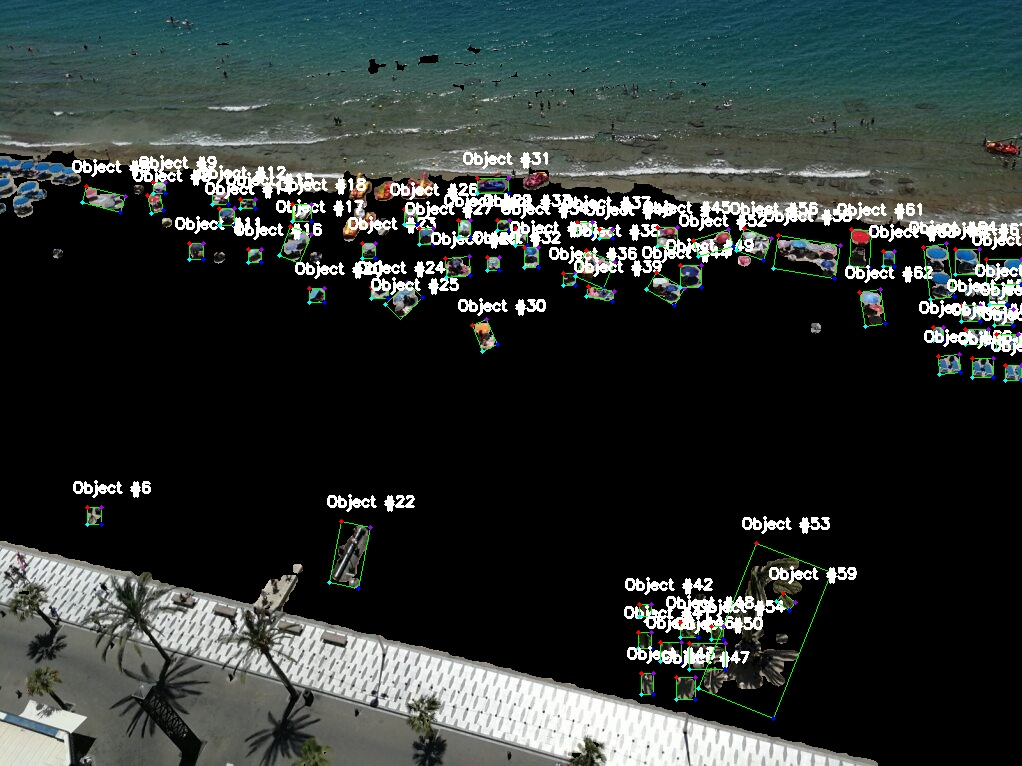
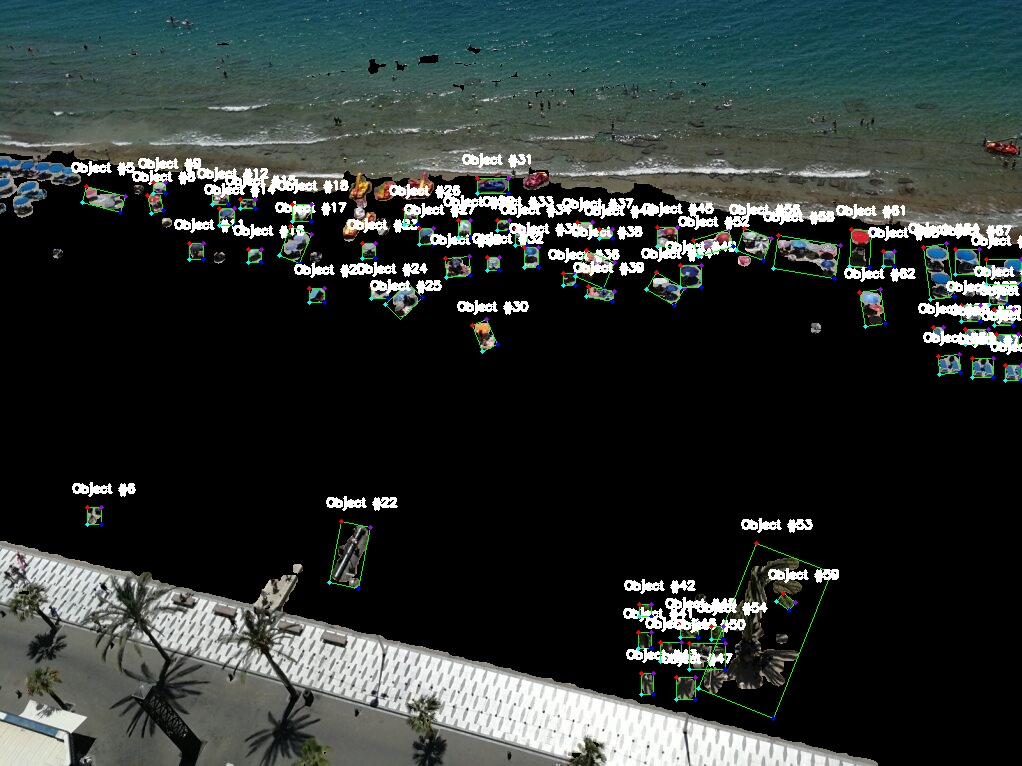
contour  and distance on px update

diff --git a/find_distancepx.py b/find_distancepx.py
@@ -1,0 +1,157 @@
+# import the necessary packages
+from scipy.spatial import distance as dist
+from imutils import perspective
+from imutils import contours
+import numpy as np
+import argparse
+import imutils
+import cv2
+
+def midpoint(ptA, ptB):
+	return ((ptA[0] + ptB[0]) * 0.5, (ptA[1] + ptB[1]) * 0.5)
+#To get de color ranges of each image each image has lower numpy array and upper numpy array
+def get_color_ranges(file):
+    color_ranges = {
+        'sin_palmeras.jpg': (np.array([16, 12, 105]), np.array([30, 68, 245])),
+        'aerea_full.jpg': (np.array([6, 15, 221]), np.array([179, 255, 255])),
+        'prueba.png': (np.array([9, 14, 163]), np.array([84, 51, 255])),
+        'captura_benidorm_1.JPG': (np.array([12, 31, 114]), np.array([82, 61, 223])),
+        'partially_seg_SAM.jpg': (np.array([0, 158, 139]), np.array([179, 255, 255])),
+        'Raw_Images/1_beni.jpg': (np.array([14, 14, 137]), np.array([21, 108, 220])),
+        'Raw_Images/2_beni.jpg': (np.array([14, 40, 120]), np.array([24, 86, 215])),
+        'Raw_Images/3_beni.jpg': (np.array([11, 42, 117]), np.array([92, 93, 200])),
+        'Raw_Images/1_posti.jpg': (np.array([11, 27, 122]), np.array([28, 77, 213])),
+        'Raw_Images/2_posti.jpg': (np.array([8, 8, 152]), np.array([45, 69, 219])),
+        'Raw_Images/3_posti.jpg': (np.array([11, 43, 107]), np.array([26, 105, 181])),
+    }
+    return color_ranges.get(file, (None, None))
+
+def main():
+    # Read image
+    file = 'Raw_Images/3_beni.jpg'
+    img = cv2.imread(file)
+    up_width = 1280
+    up_height = 720
+    up_points = (up_width, up_height)
+    img = cv2.resize(img, up_points, interpolation= cv2.INTER_LINEAR)
+    img= cv2.cvtColor(img, cv2.COLOR_BGR2HSV)
+    hh, ww = img.shape[:2]
+
+    # Rangos de color para cada imagen
+    lower, upper = get_color_ranges(file)
+    if lower is None or upper is None:
+        print("Rangos de color no definidos para la imagen")
+        return
+
+    ##### NO IMPROVES WITH GAUSSIAN BLUR
+    # img = cv2.GaussianBlur(img, (5, 5), 0)
+    # cv2.imshow('gaussian', img)
+
+    # Create mask to only select none and
+    thresh = cv2.inRange(img, lower, upper)
+
+    # apply morphology
+    size = 10    # can change this value depends the image
+    kernel = cv2.getStructuringElement(cv2.MORPH_ELLIPSE, (size,size),anchor=(size//2,size//2))
+    morph = cv2.morphologyEx(thresh, cv2.MORPH_CLOSE, kernel, iterations=1)
+
+
+    # invert morp image
+    mask = 255 - morph
+
+    # apply mask to image
+    result = cv2.bitwise_and(img, img, mask=mask)
+
+    # hsv to bgr
+    result = cv2.cvtColor(result, cv2.COLOR_HSV2BGR)
+
+    #draw contours
+    thick_countours = 1
+    cnts = cv2.findContours(mask.copy(), cv2.RETR_EXTERNAL, cv2.CHAIN_APPROX_SIMPLE)  ## External better than tree for this case because we only want the external contour
+    #cv2.drawContours(result, cnts, -1, (0,255,0), thick_countours)
+    cnts = cnts[1] if imutils.is_cv3() else cnts[0]
+
+    # sort the contours from left-to-right and, then initialize the
+    # distance colors and reference object
+    (cnts, _) = contours.sort_contours(cnts)
+    colors = ((0, 0, 255), (240, 0, 159), (0, 165, 255), (255, 255, 0),
+        (255, 0, 255))
+    refObj = None
+
+    # loop over the contours individually
+    for c in cnts:
+        # if the contour is not sufficiently large, ignore it
+        if cv2.contourArea(c) < 100 or cv2.contourArea(c) > 10000:
+            continue
+
+        # compute the rotated bounding box of the contour
+        box = cv2.minAreaRect(c)
+        box = cv2.cv.BoxPoints(box) if imutils.is_cv2() else cv2.boxPoints(box)
+        box = np.array(box, dtype="int")
+
+        # order the points in the contour such that they appear
+        # in top-left, top-right, bottom-right, and bottom-left
+        # order, then draw the outline of the rotated bounding
+        # box
+        box = perspective.order_points(box)
+
+        # compute the center of the bounding box
+        cX = np.average(box[:, 0])
+        cY = np.average(box[:, 1])
+
+        # if this is the first contour we are examining (i.e.,
+        # the left-most contour), we presume this is the
+        # reference object
+        if refObj is None:
+            # unpack the ordered bounding box, then compute the
+            # midpoint between the top-left and top-right points,
+            # followed by the midpoint between the top-right and
+            # bottom-right
+            (tl, tr, br, bl) = box
+            (tlblX, tlblY) = midpoint(tl, bl)
+            (trbrX, trbrY) = midpoint(tr, br)
+
+            # compute the Euclidean distance between the midpoints,
+            # then construct the reference object
+            D = dist.euclidean((tlblX, tlblY), (trbrX, trbrY))
+            refObj = (box, (cX, cY), D)
+            continue
+
+        # draw the contours on the image
+        orig = result.copy()
+        cv2.drawContours(orig, [box.astype("int")], -1, (0, 255, 0), thick_countours)
+        cv2.drawContours(orig, [refObj[0].astype("int")], -1, (0, 255, 0), thick_countours)
+
+        # stack the reference coordinates and the object coordinates
+        # to include the object center
+        refCoords = np.vstack([refObj[0], refObj[1]])
+        objCoords = np.vstack([box, (cX, cY)])
+
+        # loop over the original points
+        for ((xA, yA), (xB, yB), color) in zip(refCoords, objCoords, colors):
+            # draw circles corresponding to the current points and
+            # connect them with a line
+            cv2.circle(orig, (int(xA), int(yA)), 5, color, -1)
+            cv2.circle(orig, (int(xB), int(yB)), 5, color, -1)
+            cv2.line(orig, (int(xA), int(yA)), (int(xB), int(yB)),
+                color, 2)
+
+            # compute the Euclidean distance between the coordinates,
+            # and then convert the distance in pixels to distance in
+            # units
+            D = dist.euclidean((xA, yA), (xB, yB)) / refObj[2]
+            (mX, mY) = midpoint((xA, yA), (xB, yB))
+            cv2.putText(orig, "{:.1f}px".format(D), (int(mX), int(mY - 10)),
+                cv2.FONT_HERSHEY_SIMPLEX, 0.55, color, 2)
+            cv2.imshow("Image", orig)
+            cv2.waitKey(0)
+
+        # update the reference object to be the current contour
+        refObj = (box, (cX, cY), 1.0)
+
+        # show the output image
+        # cv2.imshow("Image", orig)
+        # cv2.waitKey(0)
+    
+if __name__ == '__main__':
+    main()

diff --git a/substract_no_centroid.py b/substract_no_centroid.py
@@ -1,7 +1,60 @@
+from __future__ import print_function
 import cv2
 import numpy as np
-from tkinter import filedialog
-import tkinter as tk
+from imutils import perspective
+from imutils import contours
+import imutils
+import argparse
+from scipy.spatial import distance as dist
+
+def order_points_old(pts):
+    # initialize a list of coordinates that will be ordered
+    # such that the first entry in the list is the top-left,
+    # the second entry is the top-right, the third is the
+    # bottom-right, and the fourth is the bottom-left
+    rect = np.zeros((4, 2), dtype="float32")
+
+    # the top-left point will have the smallest sum, whereas
+    # the bottom-right point will have the largest sum
+    s = pts.sum(axis=1)
+    rect[0] = pts[np.argmin(s)]
+    rect[2] = pts[np.argmax(s)]
+
+    # now, compute the difference between the points, the
+    # top-right point will have the smallest difference,
+    # whereas the bottom-left will have the largest difference
+    diff = np.diff(pts, axis=1)
+    rect[1] = pts[np.argmin(diff)]
+    rect[3] = pts[np.argmax(diff)]
+
+    # return the ordered coordinates
+    return rect
+
+##### This way works better in our case
+def order_points(pts):
+    # sort the points based on their x-coordinates
+	xSorted = pts[np.argsort(pts[:, 0]), :]
+	# grab the left-most and right-most points from the sorted
+	# x-roodinate points
+	leftMost = xSorted[:2, :]
+	rightMost = xSorted[2:, :]
+	# now, sort the left-most coordinates according to their
+	# y-coordinates so we can grab the top-left and bottom-left
+	# points, respectively
+	leftMost = leftMost[np.argsort(leftMost[:, 1]), :]
+	(tl, bl) = leftMost
+	# now that we have the top-left coordinate, use it as an
+	# anchor to calculate the Euclidean distance between the
+	# top-left and right-most points; by the Pythagorean
+	# theorem, the point with the largest distance will be
+	# our bottom-right point
+	D = dist.cdist(tl[np.newaxis], rightMost, "euclidean")[0]
+	(br, tr) = rightMost[np.argsort(D)[::-1], :]
+	# return the coordinates in top-left, top-right,
+	# bottom-right, and bottom-left order
+	return np.array([tl, tr, br, bl], dtype="float32")
+
+
 
 #To get de color ranges of each image each image has lower numpy array and upper numpy array
 def get_color_ranges(file):
@@ -20,6 +73,13 @@ def get_color_ranges(file):
     }
     return color_ranges.get(file, (None, None))
 def main():
+
+    # construct the argument parse and parse the arguments
+    ap = argparse.ArgumentParser()
+    ap.add_argument("-n", "--new", type=int, default=-1,
+	help="whether or not the new order points should should be used")
+    args = vars(ap.parse_args())
+
     # Read image
     file = 'Raw_Images/3_beni.jpg'
     img = cv2.imread(file)
@@ -56,8 +116,63 @@ def main():
 
     #draw contours
     thick_countours = 1
-    contours, hierarchy = cv2.findContours(mask, cv2.RETR_EXTERNAL, cv2.CHAIN_APPROX_NONE)  ## External better than tree for this case because we only want the external contour
-    cv2.drawContours(result, contours, -1, (0,255,0), thick_countours)
+    cnts = cv2.findContours(mask.copy(), cv2.RETR_EXTERNAL, cv2.CHAIN_APPROX_SIMPLE)  ## External better than tree for this case because we only want the external contour
+    #cv2.drawContours(result, cnts, -1, (0,255,0), thick_countours)
+
+    cnts = cnts[0] if imutils.is_cv4() else cnts[1]
+
+    # sort the contours from left-to-right and initialize the bounding box
+    # point colors
+    (cnts, _) = contours.sort_contours(cnts)
+    colors = ((0, 0, 255), (240, 0, 159), (255, 0, 0), (255, 255, 0))
+
+    # loop over the contours individually
+    for (i, c) in enumerate(cnts):
+        # if the contour is not sufficiently large, ignore it
+        print(cv2.contourArea(c))
+        if cv2.contourArea(c) < 100 or cv2.contourArea(c) > 10000:
+            continue
+        
+        # compute the rotated bounding box of the contour, then
+        # draw the contours
+        box = cv2.minAreaRect(c)
+        box = cv2.cv.BoxPoints(box) if imutils.is_cv2() else cv2.boxPoints(box)
+        box = np.array(box, dtype="int")
+        cv2.drawContours(result, [box], -1, (0, 255, 0), thick_countours)
+
+        # show the original coordinates
+        print("Object #{}:".format(i + 1))
+        #print(box)
+
+        # order the points in the contour such that they appear
+        # in top-left, top-right, bottom-right, and bottom-left
+        # order, then draw the outline of the rotated bounding
+        # box
+        rect = order_points_old(box)
+
+        # check to see if the new method should be used for
+        # ordering the coordinates
+        if args["new"] > 0:
+            rect = perspective.order_points(box)
+
+        # show the re-ordered coordinates
+        print(rect.astype("int"))
+        print("")
+
+        # loop over the original points and draw them
+        size_points = 2
+        for ((x, y), color) in zip(rect, colors):
+            cv2.circle(result, (int(x), int(y)), size_points, color, -1)
+        
+        # draw the object num at the top-left corner
+        size_object = 0.4
+        cv2.putText(result, "Object #{}".format(i + 1),
+		    (int(rect[0][0] - 15), int(rect[0][1] - 15)),
+		    cv2.FONT_HERSHEY_SIMPLEX, size_object, (255, 255, 255), 2)
+        # show the image
+        # cv2.imshow("Image", result)
+        # cv2.waitKey(0)
+
 
     cv2.imwrite('beach_thresh.jpg', thresh)
     cv2.imwrite('beach_morph.jpg', morph)

diff --git a/test_substract.py b/test_substract.py
@@ -165,7 +165,7 @@ def main():
             cv2.circle(result, (int(x), int(y)), size_points, color, -1)
         
         # draw the object num at the top-left corner
-        size_object = 0.5
+        size_object = 0.4
         cv2.putText(result, "Object #{}".format(i + 1),
 		    (int(rect[0][0] - 15), int(rect[0][1] - 15)),
 		    cv2.FONT_HERSHEY_SIMPLEX, size_object, (255, 255, 255), 2)

diff --git a/README.md b/README.md
@@ -7,6 +7,7 @@
   - [Rangos threshold para detección de nucleos](#rangos-threshold-para-detección-de-nucleos)
   - [Eliminar arena de la imagen](#eliminar-arena-de-la-imagen)
   - [Pruebas con red neuronal SAM(Segment Anything Model)](#pruebas-con-red-neuronal-samsegment-anything-model)
+  - [Calculo distancia en pixeles](#calculo-distancia-en-pixeles)
   - [Resultados](#resultados)
     - [Imagenes](#imagenes)
     - [Coordenadas de cada nucleo](#coordenadas-de-cada-nucleo)
@@ -17,8 +18,9 @@
 - OpenCV 3.4.2
 - Numpy 1.16.4
 - Matplotlib 3.1.0
-
-
+- Scipy 1.3.0
+- Imutils 0.5.2
+- argparse 1.1
 ## Rangos threshold para detección de nucleos
 Para saber los rangos de threshold en hsv para realizar la detección de nucleos, se utilizó el siguiente script:
 
@@ -31,7 +33,7 @@ El cual se ejecuta de la siguiente manera:
 Nos permite de una manera visual a través de un menú simple saber los rangos de threshold que vamos a utilziar posteriormente para eliminar la arena de las imagenes para poder identificar cada uno de los elementos de la playa 
 
 ## Eliminar arena de la imagen
-Para poder detectar los nucleos de la playa se ha realizado un proceso de eliminacion de la arena de la playa u otros detalles que no eran relevantes para la detección de los diversos nucleos de persona u objetos en la playa 
+Para poder detectar los nucleos de la playa se ha realizado un proceso de eliminacion de la arena de la playa u otros detalles que no eran relevantes para la detección de los diversos nucleos de persona u objetos en la playa.Además de detectar los diversos contornos y numeración de cada uno de los posibles nucleos descartando los contornos muy grandes o muy pequeños para eliminar posible ruido.
 
 Para realizar este proceso se ha utilizado el siguiente script:
 
@@ -44,6 +46,13 @@ Además se ha realizado otro script en el cual de los contornos detectados se ca
 Se han realizado pruebas de segmentación con la SAM ya que este modelo nos permite realizar una segmentación de la imagen sin un entrenamiento previo de lo que, queremos detectar en la imagen. Ya que el modelo es de gran tamaño se han realizado las pruebas en google colab, para ello se ha utilizado el siguiente script:
 
 ``` Uso_de_SAM(meta)_segmentacion_playas.ipynb```
+## Calculo distancia en pixeles
+Para el calculo de las distancias se han testeado diferentes formas para poder saber una distancia aproximada. 
+
+En este caso se han calculado 5 puntos en cada contorno que son 4 esquinas y el centroide y de ahí se trazan lineas con los otros nucleos que hay en la imagen.
+Para calcular la distancia en pixeles entre los nucleos se ha utilizado el siguiente script:
+
+``` find_distancepx.py```
 
 ## Resultados
 

diff --git a/Results_benidorm_images_no_centroids/README.md b/Results_benidorm_images_no_centroids/README.md
@@ -1,5 +1,5 @@
 # Resultados de la detección de nucleos de las imagenes de la playa
-A continuación se pueden observar los resultados 
+A continuación se pueden observar los resultados de la segmentacion de las imagenes tomadas en altura desde diversas terrazas y hoteles de benidorm. Estas imagenes presentan en menor medida el problema que se ha planteado a lo largo del proyecto que es la perspectiva de la imagen la cual no nos permite detectar de manera real que nucleos se encuentran en dicha imagen. En los siguiente resultados podemos observar lo obtenido usando técnicas como mask operaciones morfologicas, etc... Para poder elimnar la arena y mantener los elementos que nos interesan para dicha detección
 
 ## Resultados contornos normales
 
